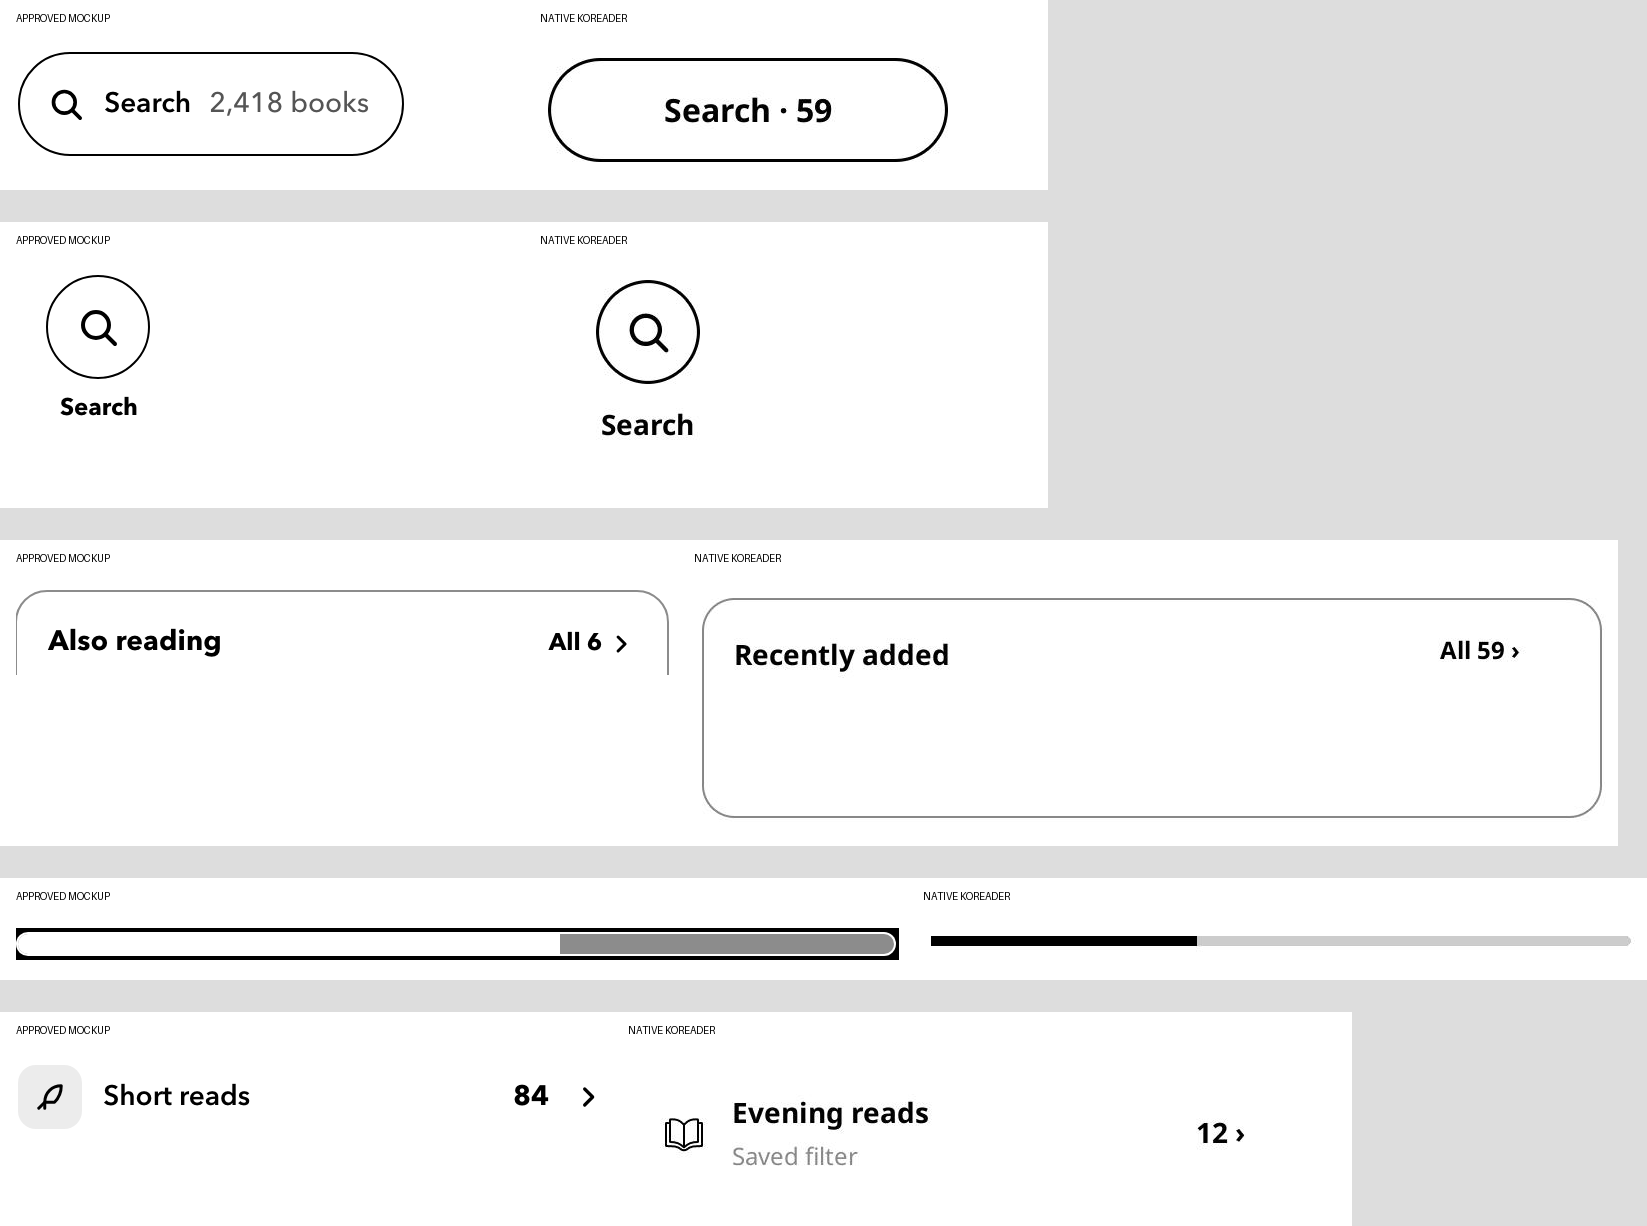
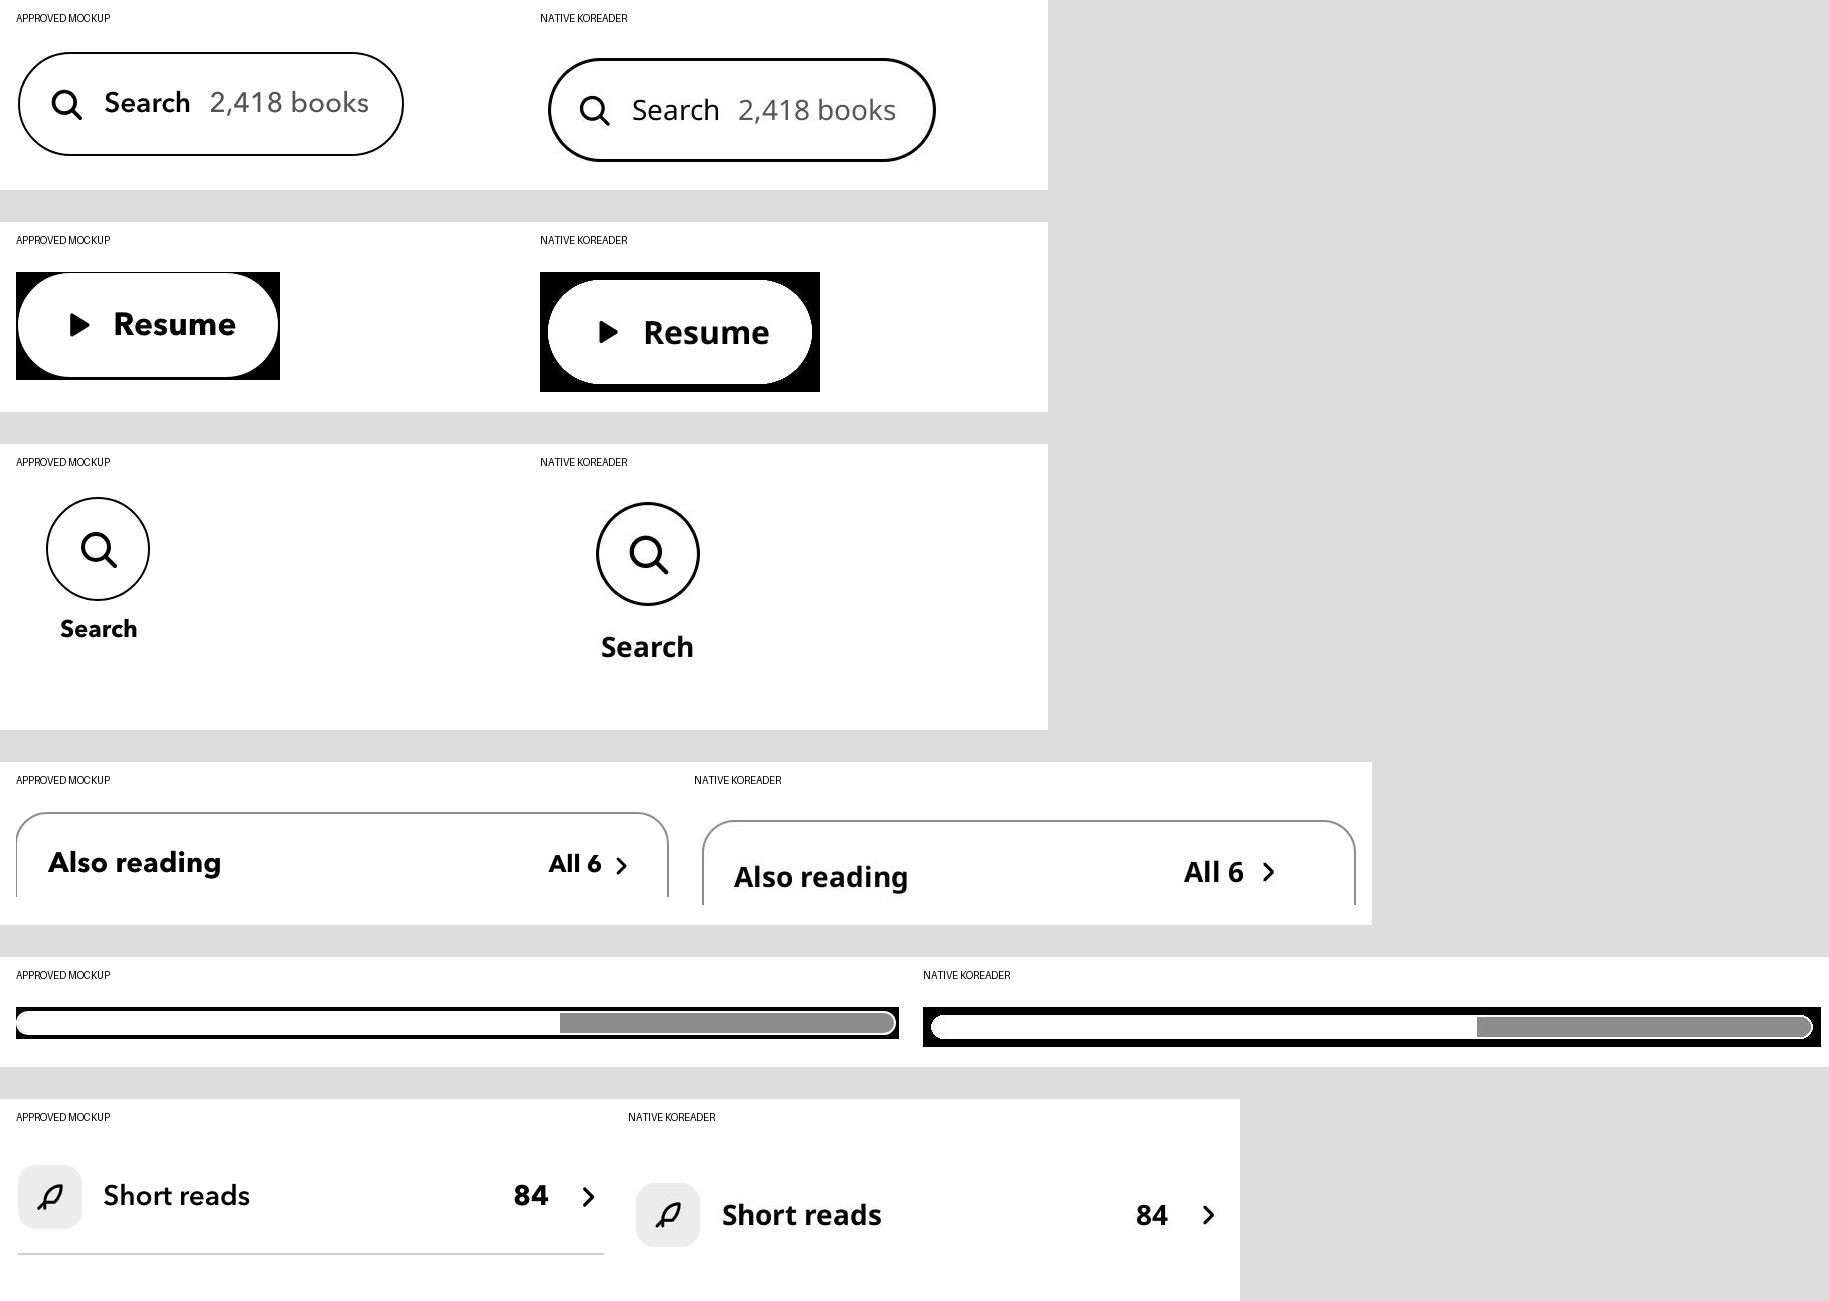
Match shared kit controls to approved component crops
Claude-Session: https://claude.ai/code/session_01BLYjLJzEkmBRpMx6vsJ4xw

diff --git a/tools/e2e/android/ui_kit.py b/tools/e2e/android/ui_kit.py
@@ -16,30 +16,34 @@ def review(device, out):
     device.dismiss_color_notice()
     device.command('Library.companion.setupLater();return true')
     fixtures = {
-        "pill": 'K.button{text="Resume",w=400}',
-        "pill-outline": 'K.button{text="Search · 59",w=400,variant="outline"}',
+        "pill": 'K.button{text="Resume",icon="play",w=264,variant="inverted"}',
+        "pill-solid": 'K.button{text="Resume",icon="play",w=264}',
+        "pill-outline": 'K.search{count=2418,w=388}',
         "icon-tile": 'K.iconTile{text="Search",icon="search",w=200}',
-        "card": 'K.card{title="Recently added",count=59,all=function() end,w=900,h=220}',
+        "card": 'K.card{title="Also reading",count=6,all=function() end,w=654,h=384}',
         "cover-image": 'K.cover{file=SOURCE_DIR.."/ko/ui/icons/books.svg",w=152}',
         "cover-placeholder": 'K.cover{title="Seedfall",author="A. Vale",w=152}',
-        "progress": 'K.progress{w=700,value=.38}',
+        "progress": 'K.progress{w=882,h=24,value=.62,ink=true}',
+        "progress-empty": 'K.progress{w=282,h=12,value=0}',
+        "progress-full": 'K.progress{w=282,h=12,value=1}',
         "segments": 'K.segments{w=700,items={"Cover","List","Compact"},selected=2}',
         "toggle-on": 'K.toggle{value=true}',
         "toggle-off": 'K.toggle{value=false}',
         "slider": 'K.slider{w=700,value=.4}',
-        "row": 'K.row{text="Evening reads",sub="Saved filter",detail="12 ›",icon="book.opened",w=700}',
+        "row": 'K.row{text="Short reads",count=84,icon="feather",w=588,h=116}',
     }
     evidence = []
     for name, expression in fixtures.items():
+        background='BB.COLOR_BLACK' if name in ('pill','progress') else 'BB.COLOR_WHITE'
         result = device.command('''local K=BookSyncUI.new(2);local widget='''+expression+''';
 local s=widget:getSize();assert(s.w>0 and s.h>0)
 local BB=require("ffi/blitbuffer");local bb=BB.new(math.ceil(s.w)+16,math.ceil(s.h)+16,BB.TYPE_BB8)
-bb:fill(BB.COLOR_WHITE);widget:paintTo(bb,8,8)
+bb:fill(''' +background+''');widget:paintTo(bb,8,8)
 bb:writeToFile("/sdcard/koreader/kit-render.png");bb:free();widget:free();return s.w.."x"..s.h''')
         device.adb("pull", "/sdcard/koreader/kit-render.png", str(out/(name+".png")))
         evidence.append({"component": name, "size": result})
     # Callback and edge-value regressions, with the production InputContainer handlers.
-    device.command('''local K=BookSyncUI.new(2);local n=0
+    device.command('''local K=BookSyncUI.new(2);local n=0;assert(K.formatCount(2418)=="2,418");assert(K.formatCount(1234567)=="1,234,567")
 local b=K.button{text="Disabled",w=200,enabled=false,callback=function() n=n+1 end};b:onKitTap();assert(n==0);b:free()
 b=K.button{text="Enabled",w=200,callback=function() n=n+1 end};local BB=require("ffi/blitbuffer");local bb=BB.new(600,300,BB.TYPE_BB8);b:paintTo(bb,200,100);assert(b.ges_events.KitTap[1]:match{ges="tap",pos={x=250,y=120,w=0,h=0}});assert(not b.ges_events.KitTap[1]:match{ges="tap",pos={x=10,y=10,w=0,h=0}});b:onKitTap();assert(n==1);bb:free();b:free()
 local t=K.toggle{value=false,onChange=function(v) assert(v);n=n+1 end};t:onKitTap();assert(n==2);t:free()

diff --git a/android/koreader/orbit.koplugin/ko/ui/README.md b/android/koreader/orbit.koplugin/ko/ui/README.md
@@ -18,7 +18,8 @@ Each factory returns an ordinary KOReader widget, owned/freed by its parent:
 
 | Factory | Options |
 | --- | --- |
-| `button` | text, w, h, variant (`solid`, `outline`, `ghost`), callback, enabled |
+| `button` | text, icon, trailingIcon, w, h, variant (`solid`, `outline`, `ghost`, `inverted`), align, bold, callback, enabled |
+| `search` | w, count, callback (regular left label, muted formatted count, leading magnifier) |
 | `iconTile` | text, icon (owned mockup icon name, or native SVG name), w, h, callback, enabled |
 | `card` | title, w, h, ink, count, all (callback); append children to `.content` |
 | `cover` | w, optional h (default 2:3), file, title/author for placeholder |
@@ -26,7 +27,7 @@ Each factory returns an ordinary KOReader widget, owned/freed by its parent:
 | `segments` | w, h, items (labels), selected (1-based), onChange(index) |
 | `toggle` | w, h, value, onChange(bool), enabled |
 | `slider` | w, value (0–1), onChange(value), enabled |
-| `row` | text, sub, detail, icon, w, h, callback, enabled |
+| `row` | text, sub, count (or legacy detail), icon, w, h, callback, enabled |
 
 The owned SVGs in `icons/` preserve the paths from the approved prototype’s
 original 24-unit icon set. No upstream icon artwork is copied into this kit.
@@ -50,3 +51,9 @@ python3 tools/e2e/android/ui_kit.py --serial emulator-N --out /tmp/kit-render
 This paints every factory to a native KOReader blitbuffer and saves its PNG, then
 captures the full gallery. It checks disabled actions, toggles, slider coordinates,
 and invalid/out-of-range progress values. It refuses non-emulator serials.
+
+Review revision: Search has a separate muted count; inverted pills preserve black
+text/icons on the white hero action; headers use bold UI labels and an owned
+chevron; row icons sit in light-grey rounded wells. Progress has a rounded,
+outlined track and clips its fill to that outline at both endpoints. Existing
+factory names and arguments remain supported.

diff --git a/docs/design/booksync-home/verification/V1-kit/README.md b/docs/design/booksync-home/verification/V1-kit/README.md
@@ -8,7 +8,7 @@ The fresh AVD needed Bluetooth disabled after an Android system startup crash.
 
 ![Native kit gallery](kit-gallery.png)
 
-All twelve component renders and callback/edge-value assertions passed with
+All fifteen component/state renders and callback/edge-value assertions passed with
 `python3 tools/e2e/android/ui_kit.py --serial emulator-5642 --out <external output>`.
 The renderer writes the dimensions to [render-tests.json](render-tests.json).
 The KOReader symbol compatibility check also passed at the repository's pin.
@@ -17,3 +17,10 @@ Differences: Noto Serif/Sans replace the prototype's proprietary Iowan/Avenir;
 fixture labels/counts and placeholder covers are synthetic. Native SVG rasterization
 and font hinting differ from browser output. The slider reports taps, without animated
 dragging. This PR does not rebuild Home; the next V1 PR consumes these primitives.
+
+Revision after review: Search uses the leading magnifier, regular left label and
+muted formatted count. Resume has the play icon and white inverted pill. Card
+headers use bold title/All labels with a separate owned chevron; rows have a
+light-grey rounded icon well, bold count and chevron. Progress uses a rounded,
+outlined track with endpoint clipping. Existing factory names and arguments stay
+valid; `search`, `inverted`, `trailingIcon`, `align`, `bold` and `count` are additive.
